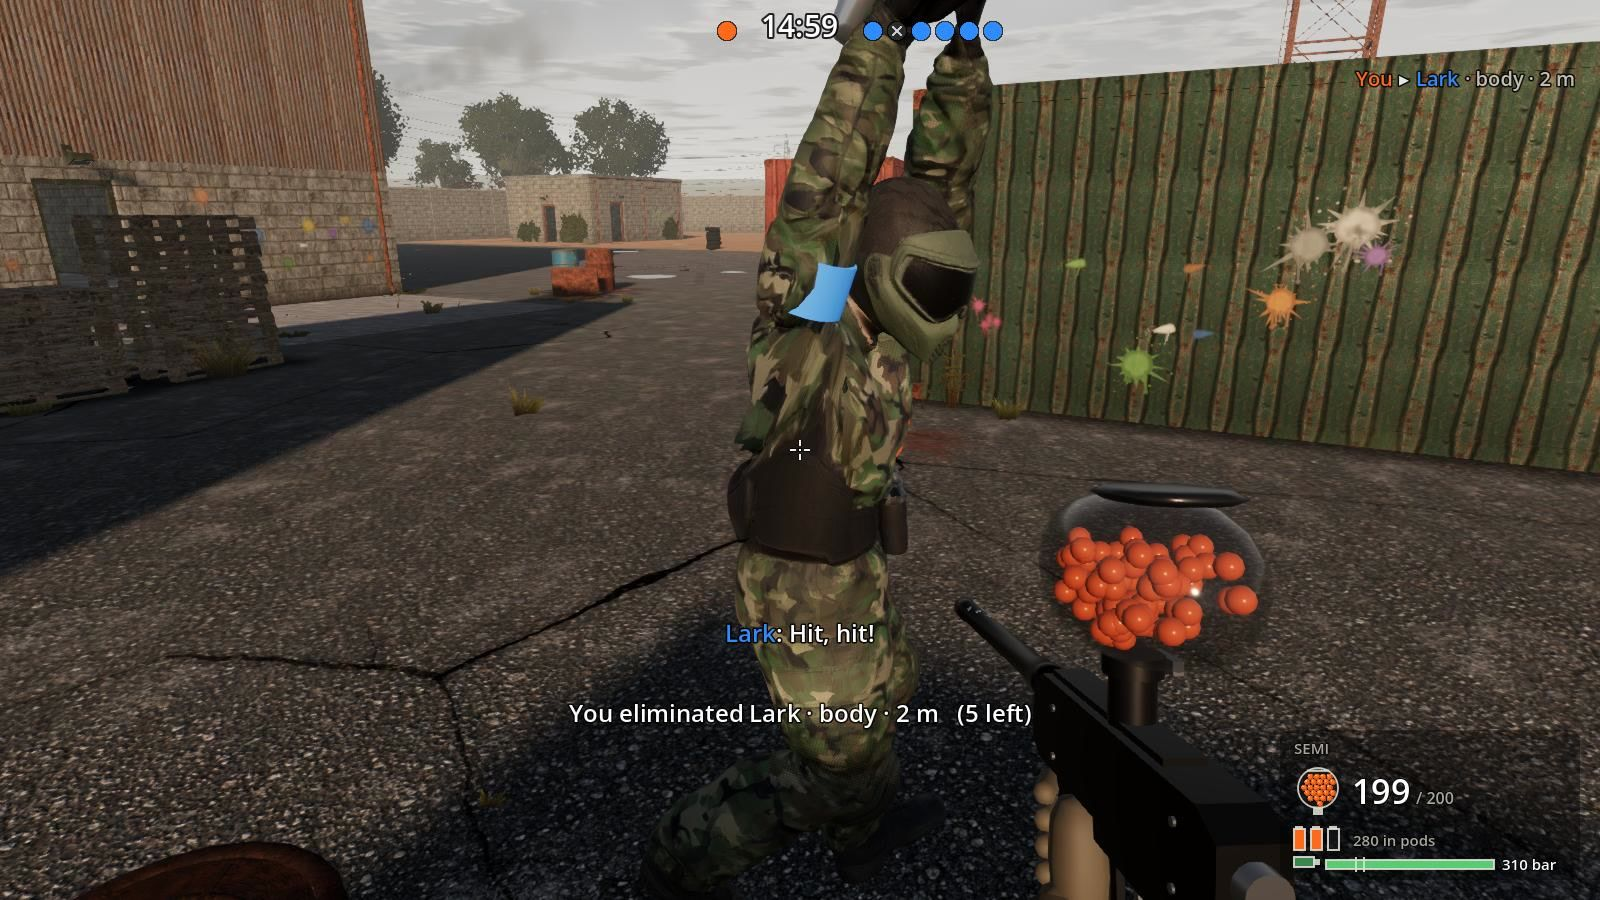
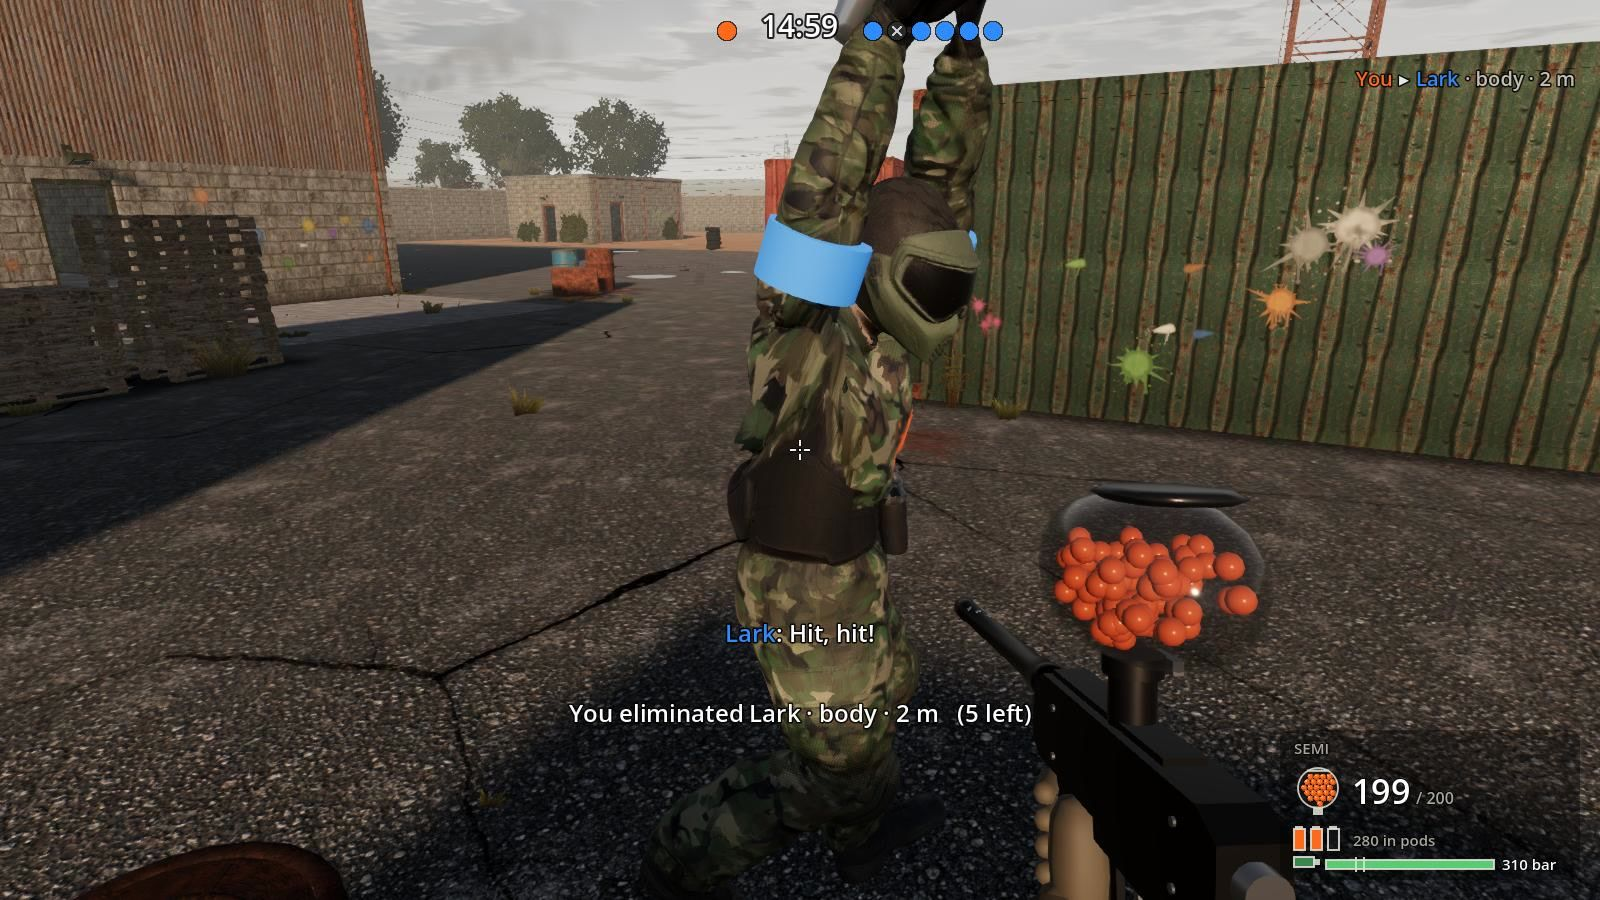
Armbands fitted round each model's sleeve
With three builds, one armband radius sank into B's padded sleeve and
floated off C's slim one. Each band is now fitted once per model and
arm: halfway down the upper arm, the vertices skinned to it are put into
the bone's frame with the skin's bind poses, outliers (shoulder and
chest skinned to the arm) are dropped, the reach in 16 directions round
the bone is taken, and the band is a ring fitted round those reaches,
offset where the bone isn't in the sleeve's middle, plus armbandGap_m.
armbandRadius_m stays as the size where a sleeve can't be measured.

Claude-Session: https://claude.ai/code/session_01Pf1GV3G2MoERW5PhRKREvS

Changed region(s): [[0.4688, 0.2178, 0.5625, 0.3733], [0.5938, 0.2489, 0.625, 0.28], [0.5625, 0.4667, 0.5938, 0.4978]]

diff --git a/game/player/CharacterModel.cs b/game/player/CharacterModel.cs
@@ -1,3 +1,4 @@
+using System;
 using System.Collections.Generic;
 using Godot;
 using Pb.Game.Ballistics;
@@ -24,6 +25,9 @@ public partial class CharacterModel : Node3D
         [HitboxPart.Arms] = new[] { "LeftArm", "LeftForeArm", "RightArm", "RightForeArm" },
         [HitboxPart.Legs] = new[] { "Hips", "LeftUpLeg", "LeftLeg", "RightUpLeg", "RightLeg" },
     };
+
+    /// <summary>Each model's upper-arm sleeves where the bands go: the circle round them (its middle off the bone, in the bone's frame, and radius, in skeleton units), or null where unmeasured.</summary>
+    private static readonly Dictionary<(string Path, string Bone), (Vector3 Middle, float Radius)?> Sleeves = new();
 
     private readonly Dictionary<string, BoneAttachment3D> _attachments = new();
     private Skeleton3D _skeleton = null!;
@@ -72,8 +76,8 @@ public partial class CharacterModel : Node3D
         model._animation = FindFirst<AnimationPlayer>(instance);
         model.Tint(instance, tint);
         float unit = SkeletonScale(instance, skeleton);
-        model.AddArmband("LeftArm", "LeftForeArm", team, def, unit);
-        model.AddArmband("RightArm", "RightForeArm", team, def, unit);
+        model.AddArmband(path, instance, "LeftArm", "LeftForeArm", team, def, unit);
+        model.AddArmband(path, instance, "RightArm", "RightForeArm", team, def, unit);
         foreach (string[] bones in SplatBones.Values)
         {
             foreach (string bone in bones)
@@ -140,8 +144,18 @@ public partial class CharacterModel : Node3D
         return attachment;
     }
 
-    /// <summary>A band in the team colour round the upper arm, about a third of the way down.</summary>
-    private void AddArmband(string bone, string child, Color team, CharactersDef def, float unit)
+    /// <summary>How far down the upper arm the bands sit (0 at the shoulder, 1 at the elbow): clear of the shoulder, where the skin blends into the body.</summary>
+    private const float Along = 0.5f;
+
+    /// <summary>How many ways round the arm a band's shape is measured and drawn.</summary>
+    private const int Sides = 16;
+
+    /// <summary>
+    /// A band in the team colour round the upper arm, halfway down: a ring round the model's sleeve there
+    /// (<see cref="Sleeve"/>) with a little room, so it wraps a padded sleeve and a slim one alike, or as wide
+    /// as the data says round the bone where the sleeve can't be measured.
+    /// </summary>
+    private void AddArmband(string path, Node3D instance, string bone, string child, Color team, CharactersDef def, float unit)
     {
         int index = _skeleton.FindBone(bone);
         int next = _skeleton.FindBone(child);
@@ -152,21 +166,201 @@ public partial class CharacterModel : Node3D
 
         // Where the elbow is in the upper arm's own frame: the band lies along that line.
         Vector3 along = _skeleton.GetBoneGlobalRest(index).AffineInverse() * _skeleton.GetBoneGlobalRest(next).Origin;
+        Basis frame = Conv.BasisFromUp(along.Normalized(), 0f);
+        if (!Sleeves.TryGetValue((path, bone), out (Vector3 Middle, float Radius)? sleeve))
+        {
+            sleeve = Sleeve(instance, index, along, frame);
+            Sleeves[(path, bone)] = sleeve;
+            GD.Print(sleeve is { } fit
+                ? $"Armband on {path.GetFile()} {bone}: sleeve {fit.Radius * unit * 100f:0.0} cm round, {fit.Middle.Length() * unit * 100f:0.0} cm off the bone"
+                : $"Armband on {path.GetFile()} {bone}: sleeve not measured, {def.ArmbandRadius_m * 100f:0.0} cm round");
+        }
+
+        float radius = sleeve is { } s ? s.Radius + def.ArmbandGap_m / unit : def.ArmbandRadius_m / unit;
         var band = new MeshInstance3D
         {
             Name = "Armband",
             Mesh = new CylinderMesh
             {
-                TopRadius = def.ArmbandRadius_m / unit,
-                BottomRadius = def.ArmbandRadius_m / unit,
+                TopRadius = radius,
+                BottomRadius = radius,
                 Height = def.ArmbandWidth_m / unit,
-                RadialSegments = 16,
+                RadialSegments = Sides,
                 Rings = 1,
             },
-            MaterialOverride = new StandardMaterial3D { AlbedoColor = team, Roughness = 0.7f, EmissionEnabled = true, Emission = team, EmissionEnergyMultiplier = 0.25f },
-            Transform = new Transform3D(Conv.BasisFromUp(along.Normalized(), 0f), along * 0.35f),
+            MaterialOverride = new StandardMaterial3D
+            {
+                AlbedoColor = team, Roughness = 0.7f, EmissionEnabled = true, Emission = team, EmissionEnergyMultiplier = 0.25f,
+            },
+            Transform = new Transform3D(frame, along * Along + (sleeve?.Middle ?? Vector3.Zero)),
         };
         Attachment(bone).AddChild(band);
+    }
+
+    /// <summary>
+    /// The model's sleeve round the bone <paramref name="bone"/> halfway along it (towards
+    /// <paramref name="along"/>, in the bone's frame), in skeleton units: first how far out it reaches in
+    /// each of <see cref="Sides"/> directions round the bone (<paramref name="frame"/>'s X towards Z), read from
+    /// the vertices skinned mostly to that bone, in a slice a sixth of the bone long, put into the bone's frame
+    /// by the skin's bind poses; ones much further out than most (the shoulder or the chest, skinned to the
+    /// arm) are left out, and a direction with none takes its neighbours'. Then a circle is fitted round
+    /// those reaches. Null when too few vertices are found.
+    /// </summary>
+    private (Vector3 Middle, float Radius)? Sleeve(Node3D instance, int bone, Vector3 along, Basis frame)
+    {
+        float length = along.Length();
+        if (length < 1e-4f)
+        {
+            return null;
+        }
+
+        Vector3 axis = along / length;
+        var across = new List<Vector3>();
+        foreach (Node node in instance.FindChildren("*", nameof(MeshInstance3D), recursive: true, owned: false))
+        {
+            if (node is not MeshInstance3D { Mesh: { } mesh, Skin: { } skin })
+            {
+                continue;
+            }
+
+            // The skin's bind that stands for this bone (by name, or by index when the binds aren't named).
+            int bind = -1;
+            for (int b = 0; b < skin.GetBindCount() && bind < 0; b++)
+            {
+                StringName name = skin.GetBindName(b);
+                if (name.IsEmpty ? skin.GetBindBone(b) == bone : _skeleton.FindBone(name) == bone)
+                {
+                    bind = b;
+                }
+            }
+
+            if (bind < 0)
+            {
+                continue;
+            }
+
+            Transform3D intoBone = skin.GetBindPose(bind);
+            for (int surface = 0; surface < mesh.GetSurfaceCount(); surface++)
+            {
+                Godot.Collections.Array arrays = mesh.SurfaceGetArrays(surface);
+                Vector3[] vertices = arrays[(int)Mesh.ArrayType.Vertex].AsVector3Array();
+                int[] bones = arrays[(int)Mesh.ArrayType.Bones].AsInt32Array();
+                float[] weights = arrays[(int)Mesh.ArrayType.Weights].AsFloat32Array();
+                int per = vertices.Length > 0 ? bones.Length / vertices.Length : 0;
+                if (per == 0 || weights.Length != bones.Length)
+                {
+                    continue;
+                }
+
+                for (int v = 0; v < vertices.Length; v++)
+                {
+                    float weight = 0f;
+                    for (int k = 0; k < per; k++)
+                    {
+                        if (bones[v * per + k] == bind)
+                        {
+                            weight += weights[v * per + k];
+                        }
+                    }
+
+                    if (weight < 0.5f)
+                    {
+                        continue;
+                    }
+
+                    Vector3 p = intoBone * vertices[v];
+                    if (Math.Abs(p.Dot(axis) / length - Along) <= 0.08f)
+                    {
+                        across.Add(p - axis * p.Dot(axis));
+                    }
+                }
+            }
+        }
+
+        if (across.Count < 12)
+        {
+            return null;
+        }
+
+        var out_ = new List<float>(across.Count);
+        foreach (Vector3 q in across)
+        {
+            out_.Add(q.Length());
+        }
+
+        out_.Sort();
+        float limit = out_[out_.Count / 2] * 1.5f;
+        var sides = new List<float>[Sides];
+        for (int k = 0; k < Sides; k++)
+        {
+            sides[k] = new List<float>();
+        }
+
+        foreach (Vector3 q in across)
+        {
+            float r = q.Length();
+            if (r <= limit)
+            {
+                float angle = Mathf.Atan2(q.Dot(frame.Z), q.Dot(frame.X));
+                sides[((int)Mathf.Round(angle / Mathf.Tau * Sides) % Sides + Sides) % Sides].Add(r);
+            }
+        }
+
+        // Most of the way out in each direction, so a stray vertex or two doesn't push the band off the sleeve.
+        var reach = new float[Sides];
+        for (int k = 0; k < Sides; k++)
+        {
+            if (sides[k].Count > 0)
+            {
+                sides[k].Sort();
+                reach[k] = sides[k][(int)((sides[k].Count - 1) * 0.85f)];
+            }
+        }
+
+        // Directions the slice had nothing in take the nearest measured ones either side.
+        var filled = (float[])reach.Clone();
+        for (int k = 0; k < Sides; k++)
+        {
+            if (reach[k] > 0f)
+            {
+                continue;
+            }
+
+            float before = 0f, after = 0f;
+            int db = 1, da = 1;
+            while (db < Sides && reach[(k - db + Sides) % Sides] <= 0f)
+            {
+                db++;
+            }
+
+            while (da < Sides && reach[(k + da) % Sides] <= 0f)
+            {
+                da++;
+            }
+
+            before = reach[(k - db + Sides) % Sides];
+            after = reach[(k + da) % Sides];
+            filled[k] = before > 0f && after > 0f ? Mathf.Lerp(before, after, (float)db / (db + da)) : Math.Max(before, after);
+        }
+
+        // A circle round it: a sleeve off the bone reaches further one way than the other, by its offset
+        // (the reaches' first harmonic); the radius then covers all but a stray direction.
+        Vector3 middle = Vector3.Zero;
+        for (int k = 0; k < Sides; k++)
+        {
+            float a = Mathf.Tau * k / Sides;
+            middle += (frame.X * Mathf.Cos(a) + frame.Z * Mathf.Sin(a)) * filled[k] * (2f / Sides);
+        }
+
+        var radii = new float[Sides];
+        for (int k = 0; k < Sides; k++)
+        {
+            float a = Mathf.Tau * k / Sides;
+            radii[k] = filled[k] - middle.Dot(frame.X * Mathf.Cos(a) + frame.Z * Mathf.Sin(a));
+        }
+
+        Array.Sort(radii);
+        return (middle, radii[(int)((Sides - 1) * 0.85f)]);
     }
 
     /// <summary>Tints every surface's colour, so copies of one model don't look like triplets.</summary>

diff --git a/game/core/PresentationDefs.cs b/game/core/PresentationDefs.cs
@@ -810,10 +810,12 @@ public sealed class CharactersDef : IValidatable
     /// <summary>Tints for the models' colours, dealt in turn, so copies of one model differ.</summary>
     public string[] Tints { get; set; } = System.Array.Empty<string>();
 
-    /// <summary>The team-colour armband on each upper arm.</summary>
+    /// <summary>The team-colour armband on each upper arm: its radius where a model's sleeve can't be measured, its width, and the room it leaves round the sleeve.</summary>
     public float ArmbandRadius_m { get; set; }
 
     public float ArmbandWidth_m { get; set; }
+
+    public float ArmbandGap_m { get; set; }
 
     /// <summary>Steps while moving: stride length and how high a foot lifts.</summary>
     public float Stride_m { get; set; }
@@ -864,6 +866,7 @@ public sealed class CharactersDef : IValidatable
 
         v.InRange(nameof(ArmbandRadius_m), ArmbandRadius_m, 0.01, 0.3);
         v.InRange(nameof(ArmbandWidth_m), ArmbandWidth_m, 0.01, 0.5);
+        v.InRange(nameof(ArmbandGap_m), ArmbandGap_m, 0, 0.05);
         v.InRange(nameof(Stride_m), Stride_m, 0.1, 2);
         v.InRange(nameof(StepLift_m), StepLift_m, 0, 0.5);
         v.InRange(nameof(FullStrideSpeed_mps), FullStrideSpeed_mps, 0.1, 20);

diff --git a/docs/phase-2.md b/docs/phase-2.md
@@ -269,7 +269,7 @@ Known gaps: bots don't jump, slide or climb anything but stairs, and their teamw
     - the feet step as it moves (IK);
     - both hands hold the marker (IK).
   - Eliminated opponents still raise the marker and walk off.
-  - A team-colour armband sits on each upper arm.
+  - A team-colour armband sits on each upper arm. Since 2026-10-03 it's fitted to each model: halfway down the upper arm, the vertices skinned to it give the sleeve's reach all round the bone, and the band is a ring round that (offset where the bone isn't in the sleeve's middle), so it wraps B's padded sleeve and C's slim one alike instead of sinking into one and floating off the other.
   - Splats stick to the nearest bone and move with it. They reach through to the model's surface, which lies inside the hitbox in some places and bulges past it in others.
   - They hold the marker built in code (below), each part fitted into its hitbox, with their team's paint in the loader.
   - **Movement clips** (code 2026-10-02; walk and run generated 2026-10-03 on A's model, jobs `5ea6374f-1777-4fb0-a7a1-794549f01368` and `75fb11c2-4b41-4c77-bb5e-1df10e9a9470`, the generator's in-place clips 690 and 654, a walk and a run with a gun held up; the crouched walk comes with the next day's generations): `characters.clips` takes a walk, a run and a crouched walk, each one in-place clip on the generator's rig, and fits each to every model's build by bone name (`MoveClipBaker`), so clips made on one character play on all of them. The clip's own feet give its ground speed, and `Gait` plays it by the ground covered, so feet don't slide; walk blends into run by speed and into the crouched walk by stance, in step; the legs turn towards where the body goes, with the chest on the aim, and backing off plays the cycle backwards. The feet are IK'd onto the clip's footfalls, so they stay on the ground through a crouch. Until the clips arrive, the procedural steps stand in (now stepping along the travel). `-- --gait-demo` shows one opponent standing, walking, running, sprinting, strafing, backing off and walking crouched, from the side; it was checked with throwaway clips made in code, which weren't kept. With the real clips, the walk measures 0.3 m/s (a slow, careful walk, a 3.3 s cycle) and the run 4.9 m/s (5.3 m/s on B's longer legs); the sim's 3 m/s walk plays mostly the run, at about three steps a second, and a sprint plays the run 1.4 times as fast. Baking them showed rounding building up down a chain of bone turns, which Godot refuses when turning a vector; the baker now keeps each turn unit length.

diff --git a/docs/architecture.md b/docs/architecture.md
@@ -455,7 +455,7 @@ The Godot project sits in `game/` rather than at the repo root for two reasons: 
   - **Gear and look.** Until the generated marker arrives, opponents hold the marker built in code (`MarkerShape`, also the first-person marker, which is held in gloved hands built in code, `HandShape`, mirrored with the model on the left shoulder), split into three groups, each fitted into its hitbox (`GearShapes`): receiver and barrel, the loader with the team's paint in it, the bottle. A team-colour armband sits on each upper arm. Each opponent gets a tint from a list, so copies of one model differ.
   - **Data.** `presentation.jsonc` → `characters` holds the models, tints, armband size, movement clips, blend time and leg turn, stride and lift for the steps without clips, pitch shares and grip positions.
   - **The clips themselves** come from the generator (in-place walk and run made on the first opponent's rig). Until they're imported, the procedural steps stand in.
-- **Attachments.** Armbands and paint splats attach to bones (`BoneAttachment3D`), so splats move with the character.
+- **Attachments.** Armbands and paint splats attach to bones (`BoneAttachment3D`), so splats move with the character. Each armband is fitted once per model and arm (`CharacterModel.Sleeve`): the mesh's vertices skinned mostly to the upper arm, in a slice halfway along it, are put into the bone's frame with the skin's bind poses; outliers past 1.5 times the median distance are dropped, the reach in 16 directions round the bone is taken (85th percentile each), and a circle is fitted to those reaches (its offset from their first harmonic), plus `armbandGap_m`.
   - A splat sticks to the nearest bone of the part it hit.
   - The hit point lies on the hitbox, which the model doesn't fill and in places bulges past. So the splat's projection box reaches as far as the bone in both directions, and normal fade keeps the paint off the far side.
 - **Hitboxes** come from the sim's `HitboxRig`, never from the mesh, so animation can't change outcomes.
